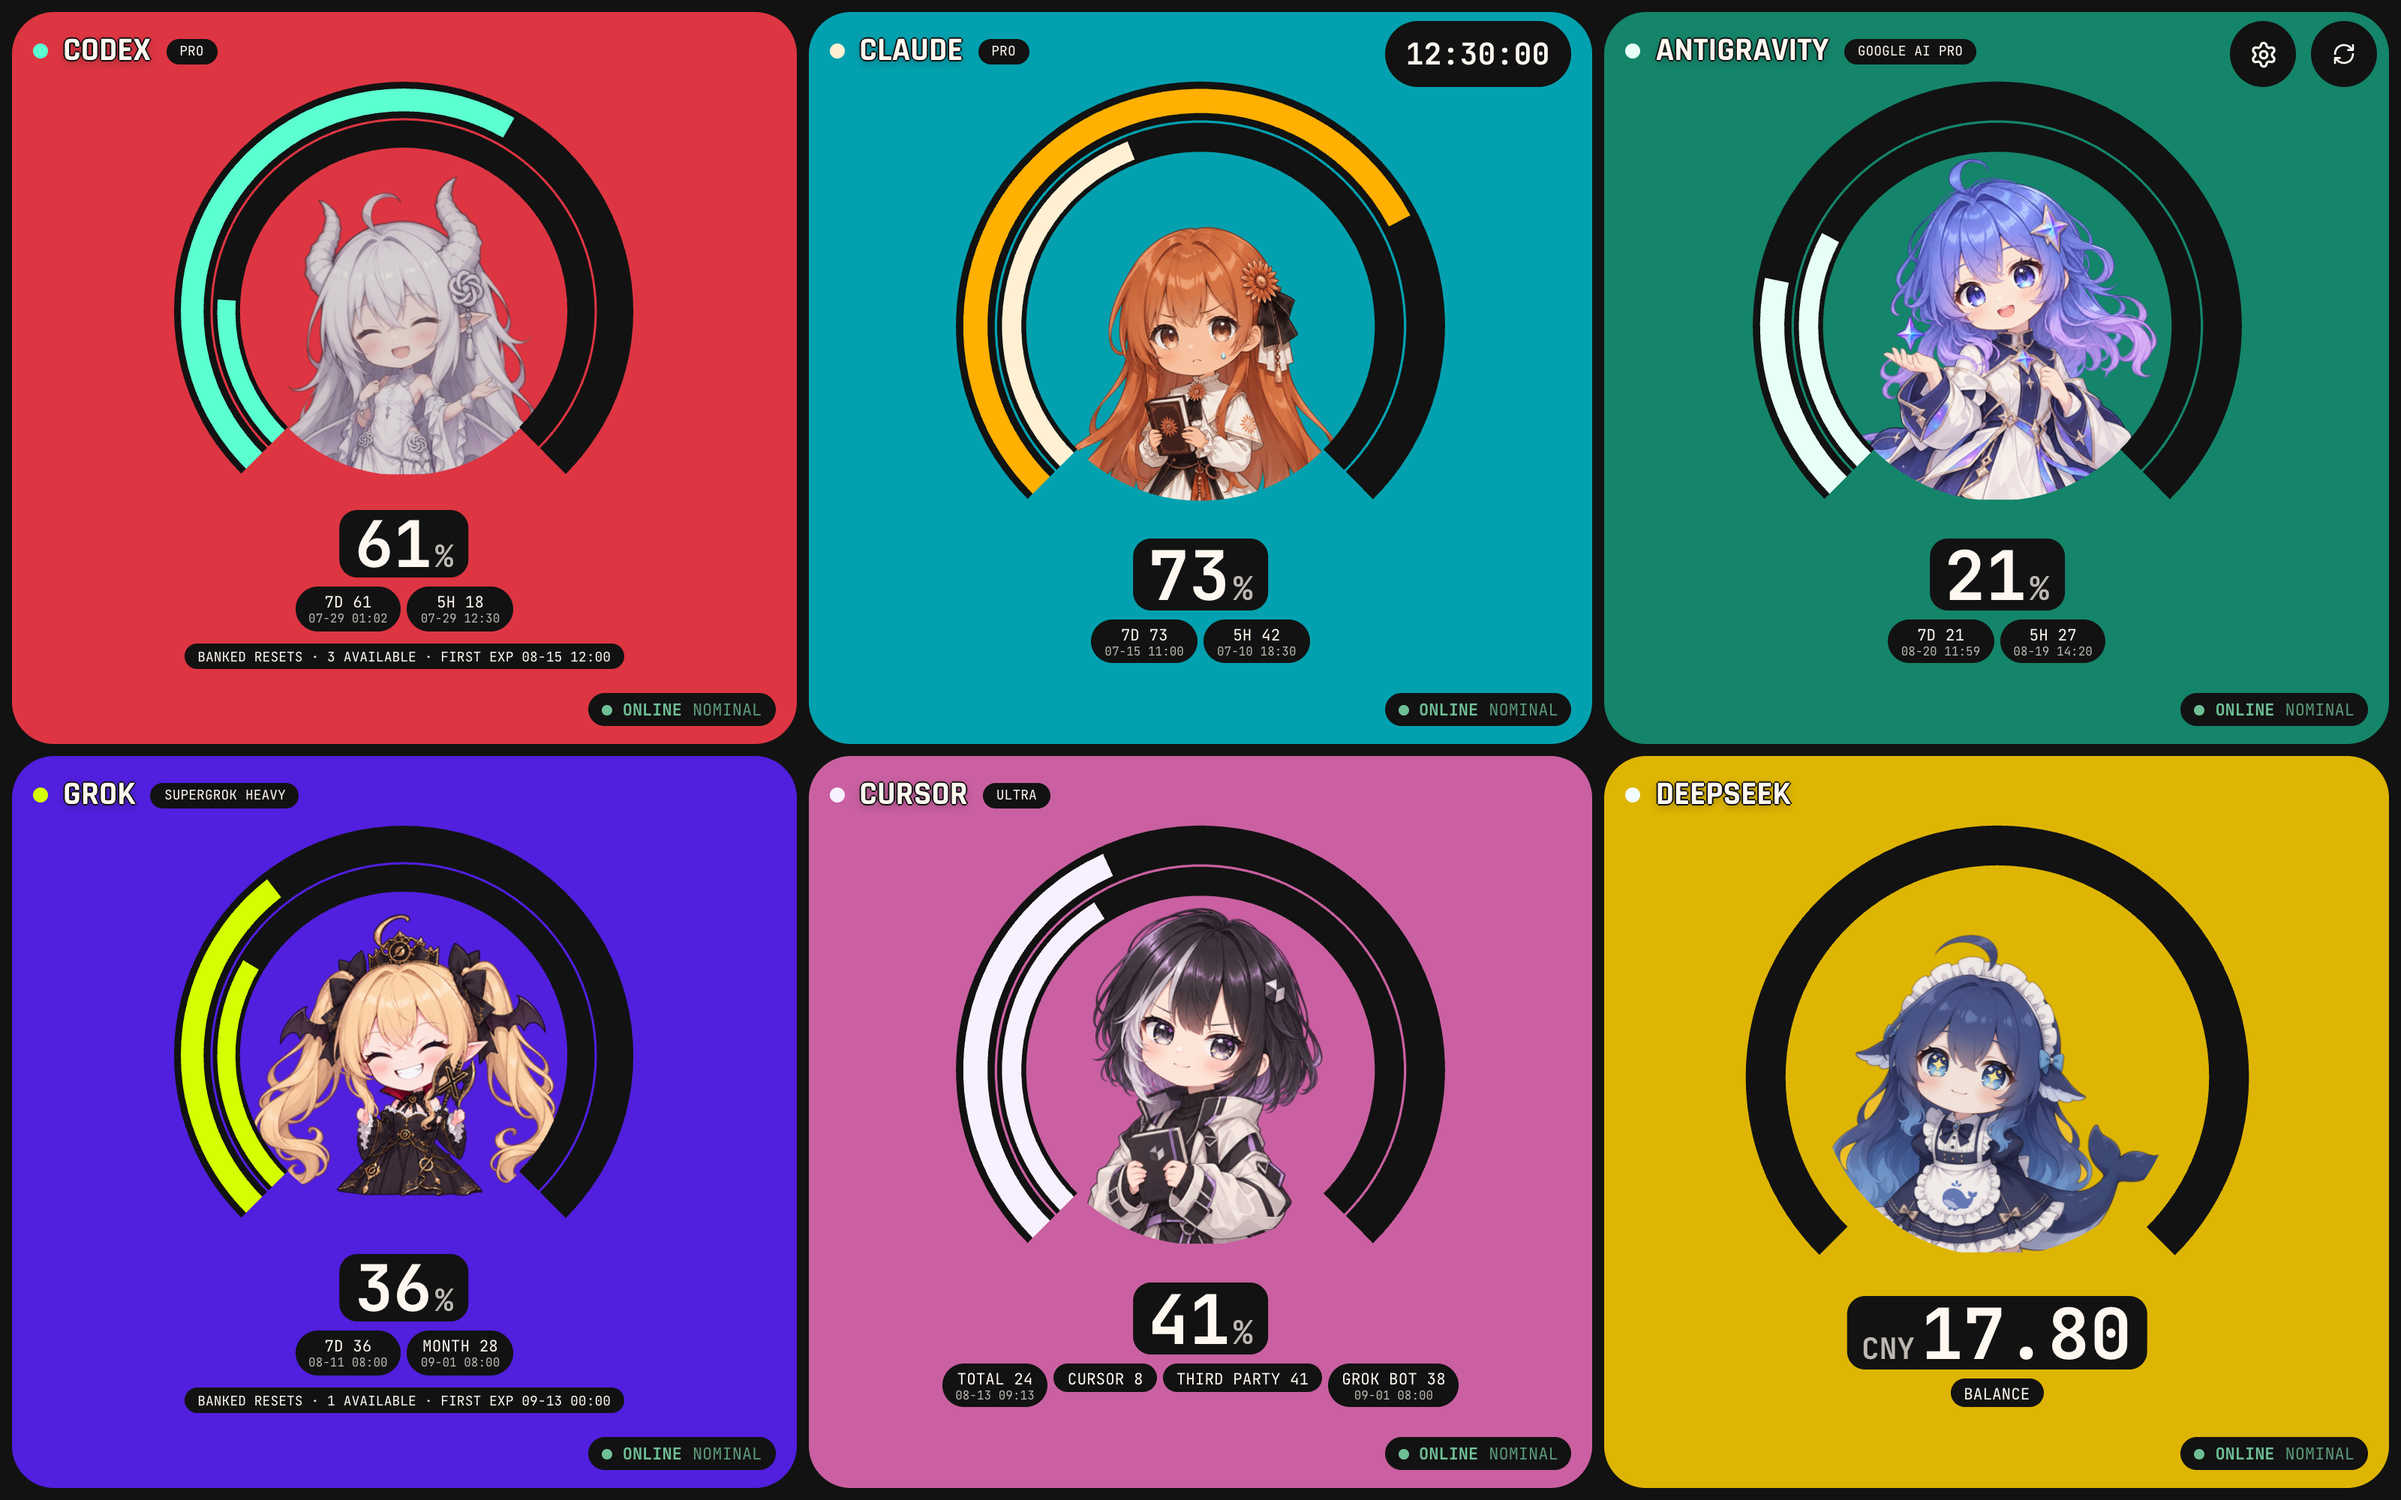
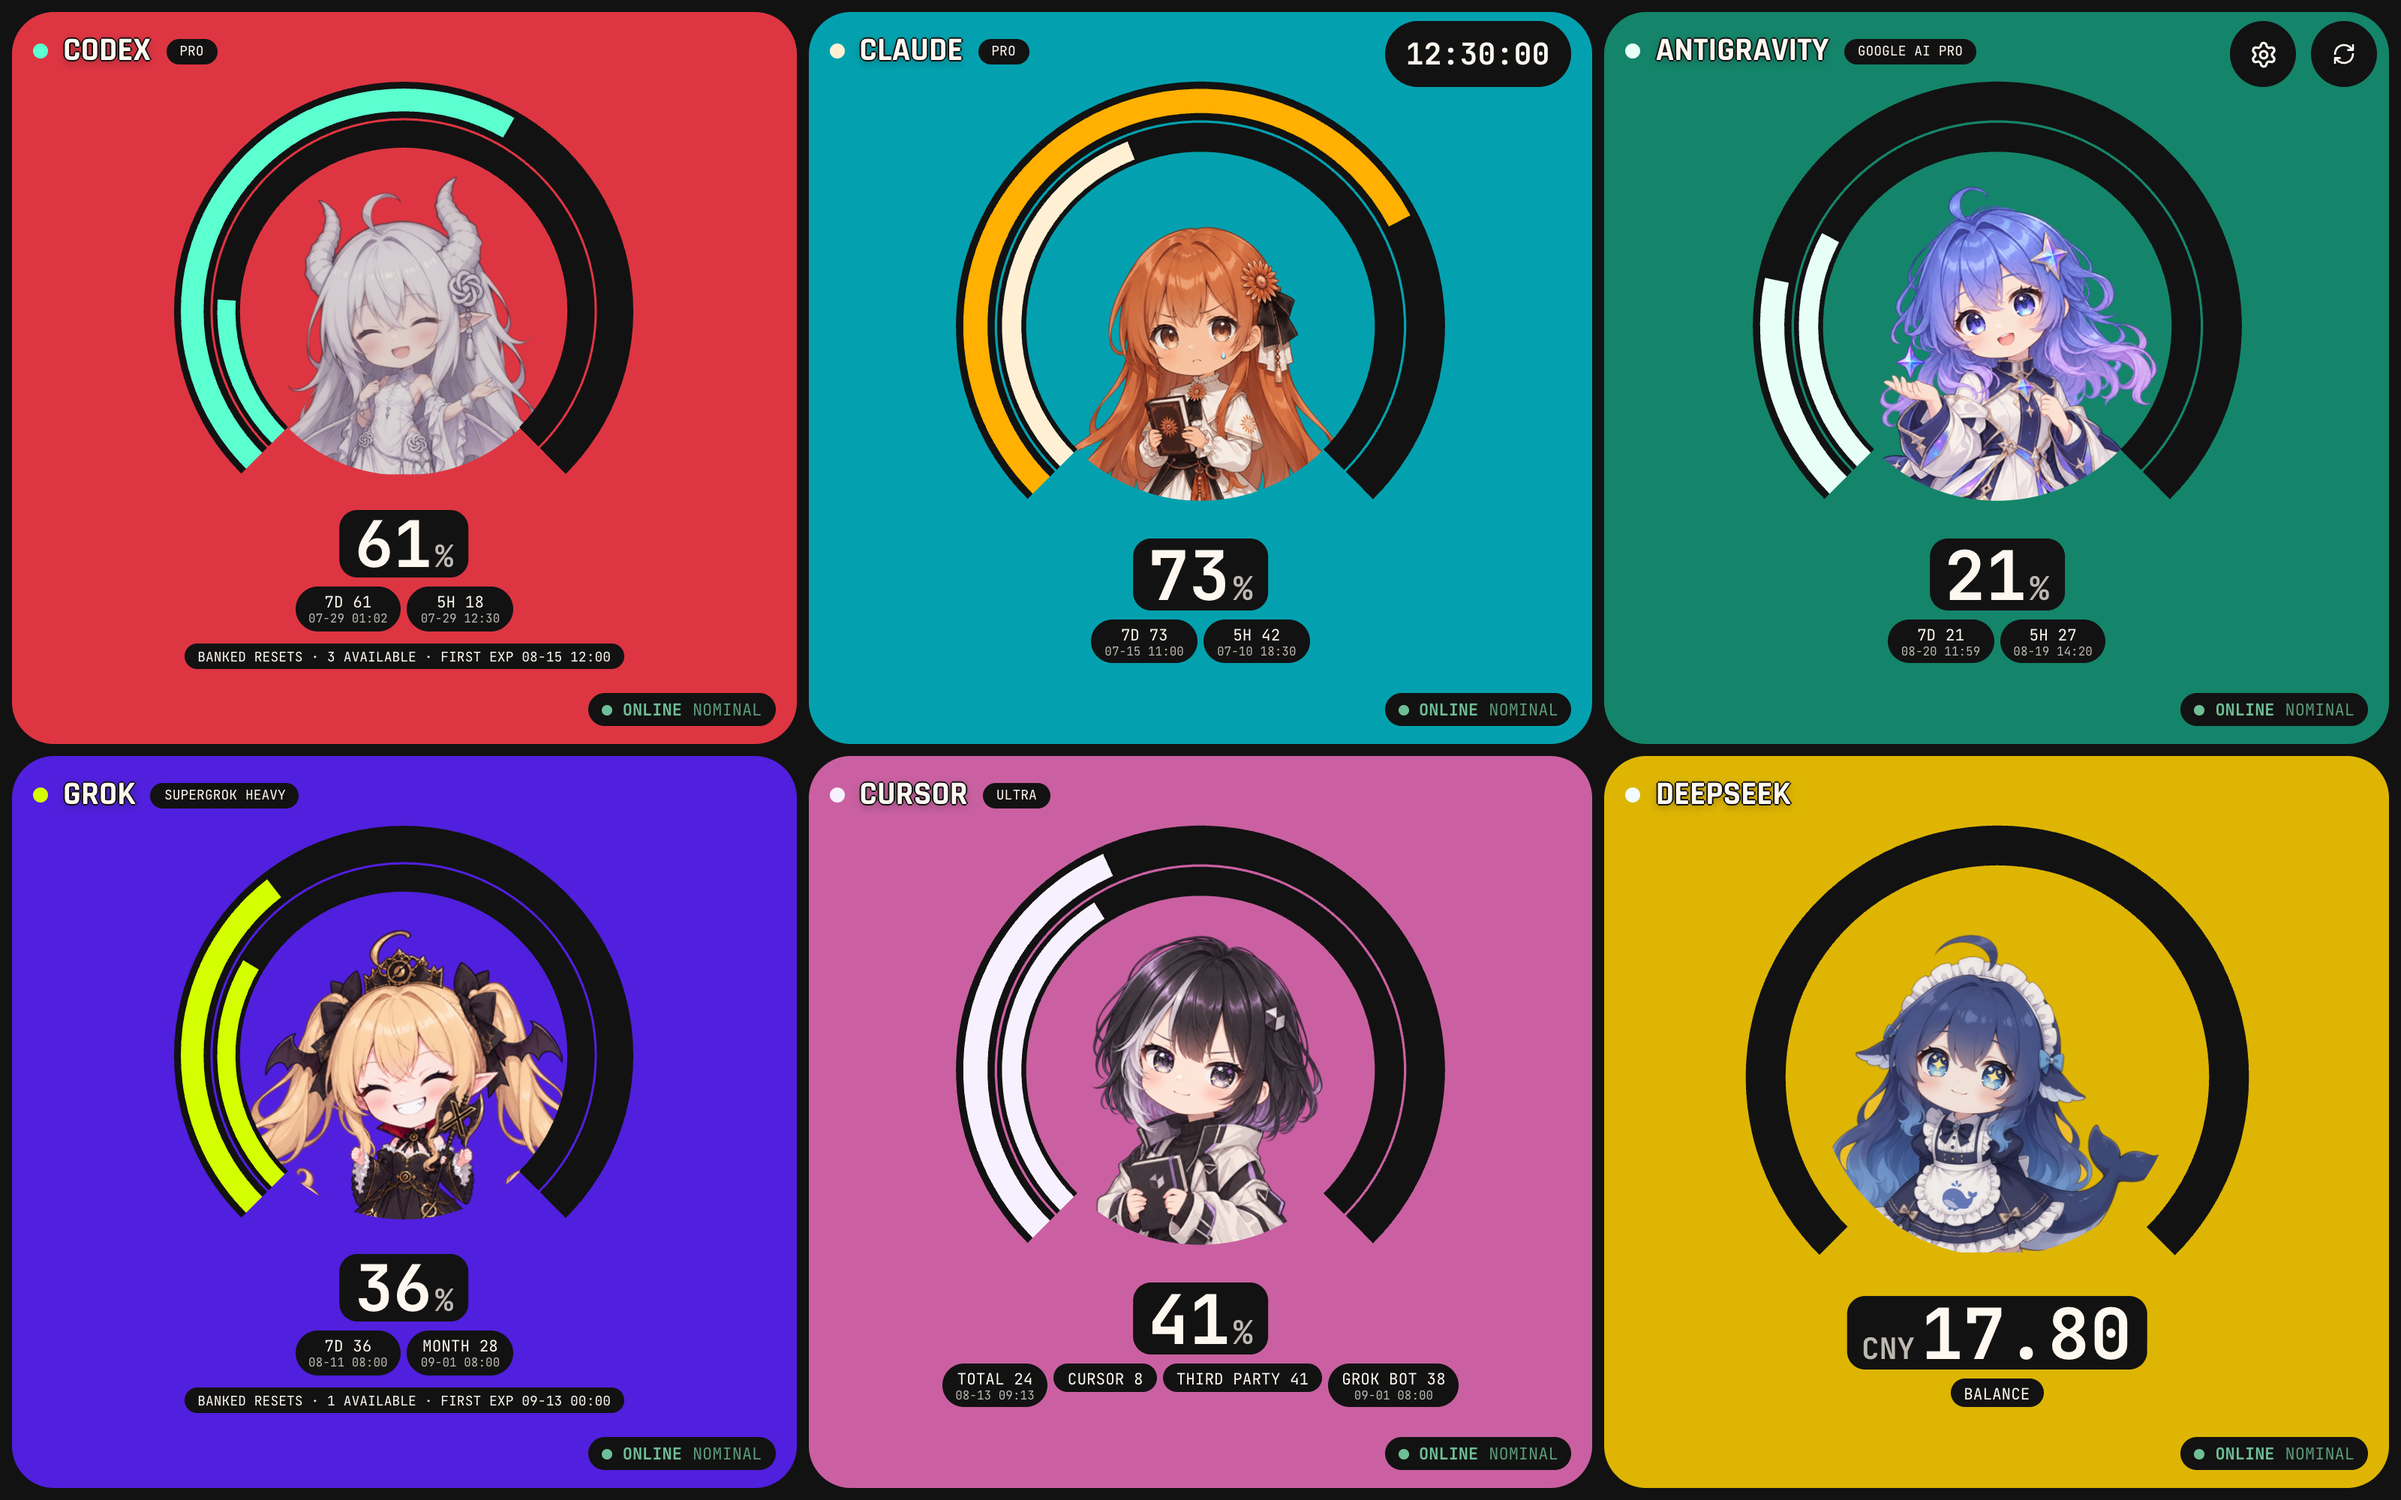
Prepare 0.8.8 visual polish release and version-aware upgrade checks

Changed region(s): [[0.7812, 0.093, 0.9062, 0.341], [0.4375, 0.589, 0.5625, 0.837], [0.0938, 0.62, 0.25, 0.837]]

diff --git a/src/styles.css b/src/styles.css
@@ -1708,6 +1708,16 @@ body {
   object-fit: contain;
   object-position: bottom center;
 }
+/* Position the artwork inside the fixed circular mask, without moving the ring. */
+.dashboard[data-art="ip"] .panel-cursor .gauge-figure .panel-mascot,
+.dashboard[data-art="ip"] .panel-antigravity .gauge-figure .panel-mascot {
+  translate: 0 8%;
+}
+.dashboard[data-art="ip"] .panel-grok .gauge-figure .panel-mascot {
+  /* Keep the sprite's straight waist edge below the circular crop. */
+  translate: 0 10%;
+  scale: 1.12;
+}
 .dashboard[data-art="ip"] .panel[data-emerge="left"] .panel-mascot {
   object-position: bottom left;
 }

diff --git a/docs/releases/v0.8.8.md b/docs/releases/v0.8.8.md
@@ -1,0 +1,25 @@
+## AI Usage Dashboard v0.8.8
+
+A small visual-polish release for the IP skin's circular gauges.
+
+### Highlights
+
+- Lower Cursor and Antigravity artwork within the circular mask.
+- Enlarge and lower Grok artwork to hide the sprite's straight waist edge.
+- Refresh the four-card and six-ring README screenshots using synthetic data.
+- Release checks read the candidate version from package metadata, reject mismatched tags, and use 0.8.7 as the native upgrade baseline.
+
+### Installation
+
+- **Windows x64:** NSIS `.exe` or MSI. The WinGet community index may lag this release.
+- **Linux x64:** DEB or AppImage. AppImage extract-and-run is an alternative when FUSE is unavailable.
+- **macOS Apple Silicon:** DMG. No Intel macOS installer is included.
+
+The `install-linux.sh` and `install-macos.sh` helpers are also attached. Verify downloads against `AI-Usage-Dashboard_0.8.8_SHA256SUMS.txt`.
+
+### Compatibility and limits
+
+- The release workflow checks upgrades from the published 0.8.7 packages, synthetic-data startup, repeat installation or repair, and executable removal. Renderer interaction tests run separately in Chromium.
+- Installers remain unsigned/not notarized; system trust prompts are not covered by CI.
+- Claude credential recovery remains best effort. Real expired-account renewal is not covered by synthetic tests, and Keychain-only Claude logins on macOS remain unsupported.
+- Windows screensaver and scheduled-idle helpers remain Windows-only.

diff --git a/README.md b/README.md
@@ -86,7 +86,7 @@ or macOS Gatekeeper may require manual confirmation.
 
 ## Compatibility and limitations
 
-Version `0.8.7` is the current multi-platform release: Windows (WinGet + NSIS),
+Version `0.8.8` is the current multi-platform release: Windows (WinGet + NSIS),
 Linux (`.deb` / AppImage), and macOS (`.dmg`). Screensaver and scheduled-idle
 helpers remain Windows-only. Published installers are not code-signed. Community
 WinGet indexes can lag a new GitHub release until the version manifest is
@@ -120,8 +120,8 @@ reporting a vulnerability or suspected credential exposure.
 
 ## Additional installation notes
 
-Pin a version with `VERSION=0.8.7` before the install script, for example
-`VERSION=0.8.7 sh install-linux.sh`.
+Pin a version with `VERSION=0.8.8` before the install script, for example
+`VERSION=0.8.8 sh install-linux.sh`.
 
 ### Windows (WinGet and direct installer)
 

diff --git a/CHANGELOG.md b/CHANGELOG.md
@@ -2,6 +2,20 @@
 
 All notable changes to this project are documented in this file.
 
+## [0.8.8] - 2026-10-03
+
+### Fixed
+
+- Improve Grok, Cursor, and Antigravity mascot positioning inside the IP skin's
+  circular gauges. Enlarge and lower Grok to hide its straight waist edge.
+- Release installer checks use the candidate version from package metadata and
+  test upgrades from 0.8.7 on Windows, Linux, and macOS.
+- Reject release tags that disagree with application or lockfile versions.
+
+### Changed
+
+- Refresh the default four-card and six-ring README screenshots with synthetic data.
+
 ## [0.8.7] - 2026-10-01
 
 ### Changed
